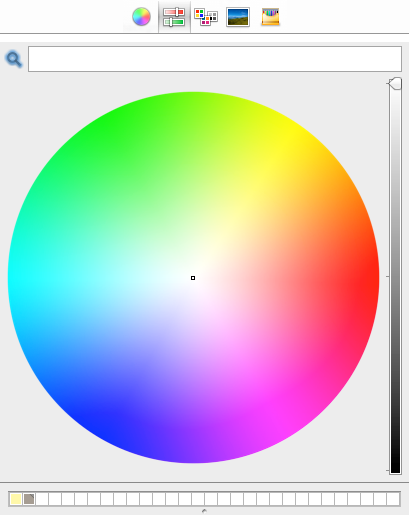
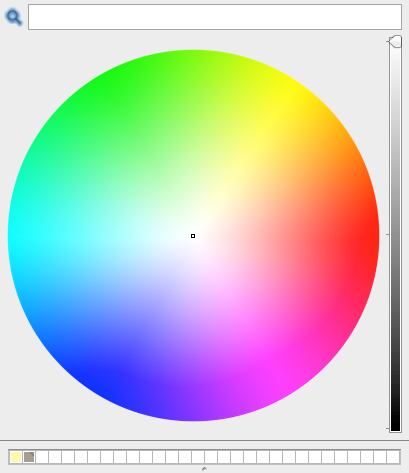
Added toolbar and transition between colorpanel and formats

diff --git a/loupe/views/sass/_toolbar.scss b/loupe/views/sass/_toolbar.scss
@@ -1,0 +1,93 @@
+.toolbar {
+  position: relative;
+  margin: 0;
+  padding: 0;
+  list-style: none;
+  text-align: center;
+  width: 100%;
+  height: 33px;
+  border-bottom: 1px solid #ccc;
+  background: linear-gradient(#fff, #fdfdfd);
+  z-index: 0;
+  overflow: hidden;
+}
+  .toolbar__item {
+    position: absolute;
+    top: 8px;
+    left: 50%;
+    padding-left: 20px;
+    background: image-url("/images/icon_formats@2x.png") 0 1px no-repeat;
+    background-size: 16px 16px;
+    @include translateX(-50%);
+    @include transition(
+      opacity .5s,
+      left .5s,
+      transform .5s
+    );
+  }
+  .toolbar__item_back {
+    width: 16px;
+    height: 16px;
+    opacity: 0;
+    @include translateX(0);
+  }
+  .toolbar__item_color {
+    left: 100%;
+    padding-left: 7px;
+    text-indent: -9999px;
+    width: 16px;
+    background: image-url("/images/icon_color@2x.png") 0 0 no-repeat;
+    background-size: 16px 16px;
+    @include translateX(-100%);
+  }
+  .toolbar__item_colortoolbar {
+    top: 0;
+    background: image-url("/images/color-panel_toolbar.png") 0 0 no-repeat;
+    width: 164px;
+    height: 33px;
+    opacity: 0;
+    @include translateX(150%);
+  }
+
+.menu_recent {
+  .toolbar {
+    .toolbar__item_recent {
+      opacity: 1;
+    }
+    .toolbar__item_all {
+      opacity: 0;
+    }
+  }
+}
+.menu_all {
+  .toolbar {
+    .toolbar__item_recent {
+      opacity: 0;
+    }
+    .toolbar__item_all {
+      opacity: 1;
+    }
+  }
+}
+.menu_color {
+  .toolbar {
+    .toolbar__item_recent,
+    .toolbar__item_all {
+      opacity: 0;
+      left: 0;
+      @include translateX(0);
+    }
+    .toolbar__item_back {
+      left: 7px;
+      opacity: 1;
+    }
+    .toolbar__item_color {
+      opacity: 0;
+      left: 50%;
+    }
+    .toolbar__item_colortoolbar {
+      opacity: 1;
+      @include translateX(-50%);
+    }
+  }
+}

diff --git a/loupe/views/sass/_menu.scss b/loupe/views/sass/_menu.scss
@@ -14,7 +14,8 @@ $menuActiveColor: #366bda;
   top: 50%;
   left: 50%;
   font: 14px "Lucida Grande", Helvetica, sans-serif;
-  width: ($menuSampleSize + 10) * 8 + 10;
+  // width: ($menuSampleSize + 10) * 8 + 10;
+  width: 410px;
   background-color: $menuBackgroundColor;
   border-radius: $menuBorderRadius + 2;
   box-shadow:
@@ -37,7 +38,7 @@ $menuActiveColor: #366bda;
     @include transition(
       visibility 1ms 250ms,
       opacity 125ms 50ms,
-      -webkit-transform 250ms
+      transform 250ms
     );
   }
 }
@@ -67,6 +68,10 @@ $menuActiveColor: #366bda;
       box-shadow: 0 0 0 1px rgba(0, 0, 0, .25) inset;
       opacity: 1;
       @include transition(width .25s, opacity .25s);
+
+      &:last-of-type {
+        margin-right: 0;
+      }
 
       &:before,
       &:after {
@@ -135,7 +140,7 @@ $menuActiveColor: #366bda;
   .menu__formats {
     position: relative;
     overflow: hidden;
-    @include transition(height .35s);
+    @include transition(height .5s);
   }
   // View states
   .menu_recent {
@@ -181,10 +186,10 @@ $menuActiveColor: #366bda;
   }
 
   .menu_color {
-    width: 410px;
+    // width: 410px;
 
     .menu__formats {
-      height: 548px;
+      height: 478px;
       overflow: hidden;
     }
     .menu__items_recent,
@@ -192,17 +197,19 @@ $menuActiveColor: #366bda;
       @include translateX(-100%);
     }
     .menu__color-panel {
-      @include translateX(0);
+      @include translate(0, -34px);
     }
   }
 
   .menu__color-panel,
   .menu__items {
     position: absolute;
-    top: 0;
-    margin-top: $menuBorderWidth;
     width: 100%;
-    @include transition(transform .35s, opacity .25s, visibility 0 .25s);
+    @include transition(transform .5s, opacity .25s, visibility 0 .25s);
+  }
+  .menu__color-panel {
+    top: 34px;
+    z-index: 1;
   }
 
     .menu__item {

diff --git a/loupe/views/sass/screen.scss b/loupe/views/sass/screen.scss
@@ -7,6 +7,7 @@
 @import "compass/reset";
 @import "compass/css3";
 @import "menu";
+@import "toolbar";
 @import "loupe";
 
 body {
